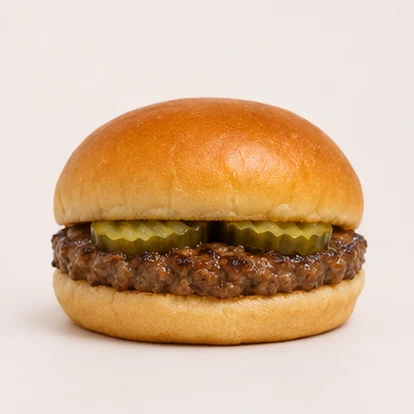
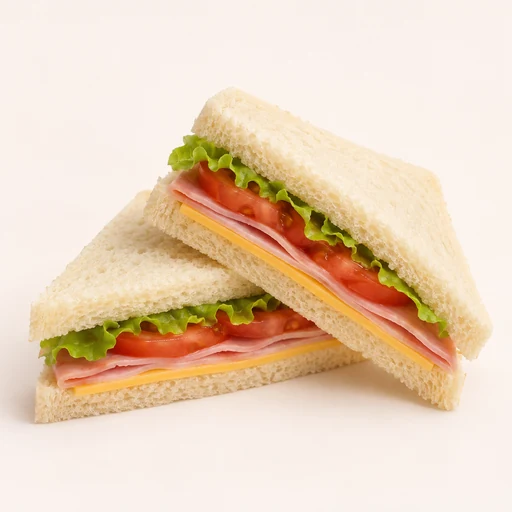
햄버거 가게 주메뉴를 버거 3종과 샌드위치로 구성

diff --git a/typing/learn/content.js b/typing/learn/content.js
@@ -57,11 +57,11 @@ export const shops = {
   })() },
   burger: { name: '햄버거 가게', image: 'burger-2', ...order, groups: (() => {
     const menu = items('burger', [
-      ['햄버거'], ['치즈버거'], ['치킨버거'], ['불고기버거'],
+      ['샌드위치'], ['치즈버거'], ['치킨버거'], ['불고기버거'],
       ['감자튀김', '팩'], ['치킨 조각', '팩'],
       ['콜라', '잔'], ['레몬소다', '잔'], ['오렌지주스', '잔']
     ]);
-    return [['버거', menu.slice(0, 4)], ['사이드', menu.slice(4, 6)], ['음료', menu.slice(6)]];
+    return [['버거·샌드위치', [menu[2], menu[3], menu[1], menu[0]]], ['사이드', menu.slice(4, 6)], ['음료', menu.slice(6)]];
   })() },
   food: { name: '음식점', image: 'places-4', ...order, prompt: '무엇을 먹을까요?',
     receive: '음식 받기', done: '음식을 받았어요. 잘 먹겠습니다.', groups: (() => {
@@ -192,7 +192,7 @@ export const shopProblems = {
     { items: [['치즈버거', 1], ['감자튀김', 1], ['콜라', 1]] },
     { items: [['치킨버거', 1], ['치킨 조각', 1], ['레몬소다', 2]] },
     { items: [['불고기버거', 2], ['오렌지주스', 1]] },
-    { items: [['햄버거', 1], ['감자튀김', 2], ['오렌지주스', 1]] }
+    { items: [['샌드위치', 1], ['감자튀김', 2], ['오렌지주스', 1]] }
   ],
   food: [{ items: [['돈가스', 1]] }, { items: [['김밥', 2], ['우동', 1]] }]
 };

diff --git a/typing/learn/app.js b/typing/learn/app.js
@@ -1,4 +1,4 @@
-import { bankContexts, bankProblems, banks, places, shopProblems, shops, tripContexts, tripProblems, trips } from './content.js?v=6';
+import { bankContexts, bankProblems, banks, places, shopProblems, shops, tripContexts, tripProblems, trips } from './content.js?v=7';
 import { notes, values as noteValues, total, won } from '/haru/money/currency.js?v=1';
 
 const app = document.querySelector('#app');
@@ -6,7 +6,7 @@ const back = document.querySelector('#back');
 const home = document.querySelector('#home');
 const area = {
   '/haru/kiosk': { id: 'kiosk', title: '키오스크', prompt: '가게를 골라 구매나 주문 문제를 풀어 보세요.' },
-  '/haru/burger': { id: 'burger', title: '햄버거 가게', prompt: '버거, 사이드, 음료를 골라 주문해 보세요.' },
+  '/haru/burger': { id: 'burger', title: '햄버거 가게', prompt: '버거와 샌드위치, 사이드, 음료를 주문해 보세요.' },
   '/haru/bank': { id: 'bank', title: '은행 이용', prompt: '창구 또는 ATM을 골라 은행 문제를 풀어 보세요.' },
   '/haru/transport': { id: 'transport', title: '교통수단', prompt: '탈것을 골라 순서 문제를 풀어 보세요.' }
 }[window.location.pathname.replace(/\/$/, '')];

diff --git a/haru/index.html b/haru/index.html
@@ -60,7 +60,7 @@
       </a>
       <a href="/haru/burger">
         <img src="/typing/learn/images/burger-2.webp" alt="" width="480" height="300">
-        <span><strong>햄버거 가게</strong><small>버거, 사이드, 음료 주문하기</small></span>
+        <span><strong>햄버거 가게</strong><small>버거·샌드위치와 사이드 주문하기</small></span>
       </a>
       <a href="/haru/bank">
         <img src="/typing/learn/images/places-5.webp" alt="" width="480" height="300">

diff --git a/typing/learn/index.html b/typing/learn/index.html
@@ -10,7 +10,7 @@
   <link rel="manifest" href="/haru/manifest.webmanifest">
   <link rel="stylesheet" href="/haru/brand.css?v=3">
   <link rel="stylesheet" href="/typing/learn/style.css?v=8">
-  <script type="module" src="/typing/learn/app.js?v=13"></script>
+  <script type="module" src="/typing/learn/app.js?v=14"></script>
 </head>
 <body>
   <header class="haru-top">
